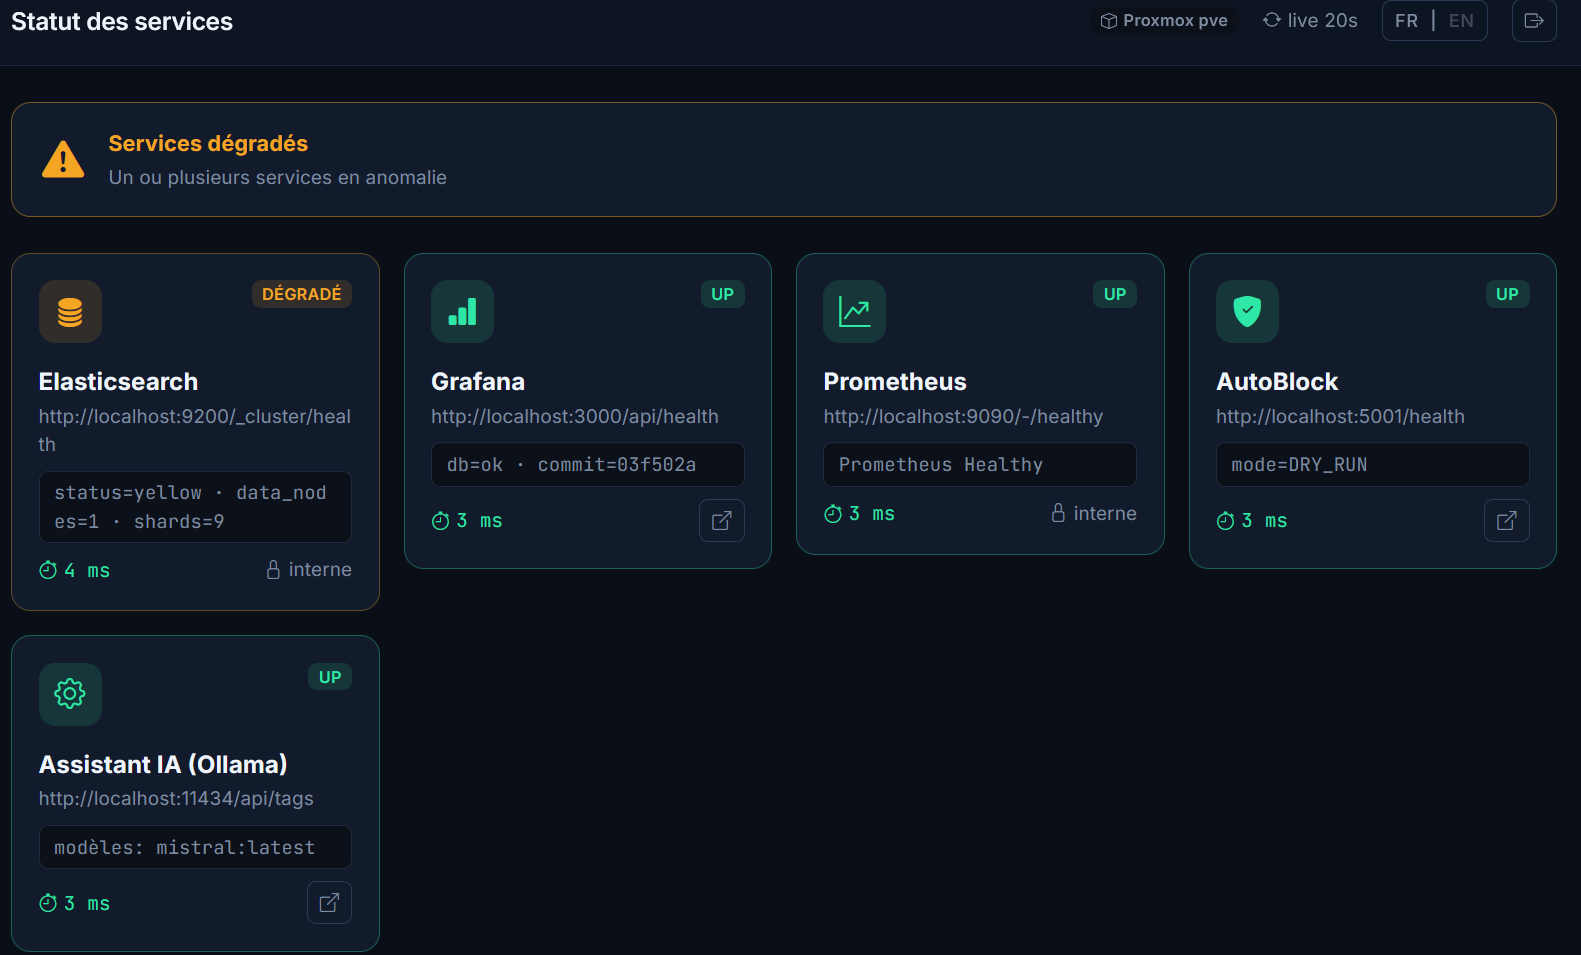
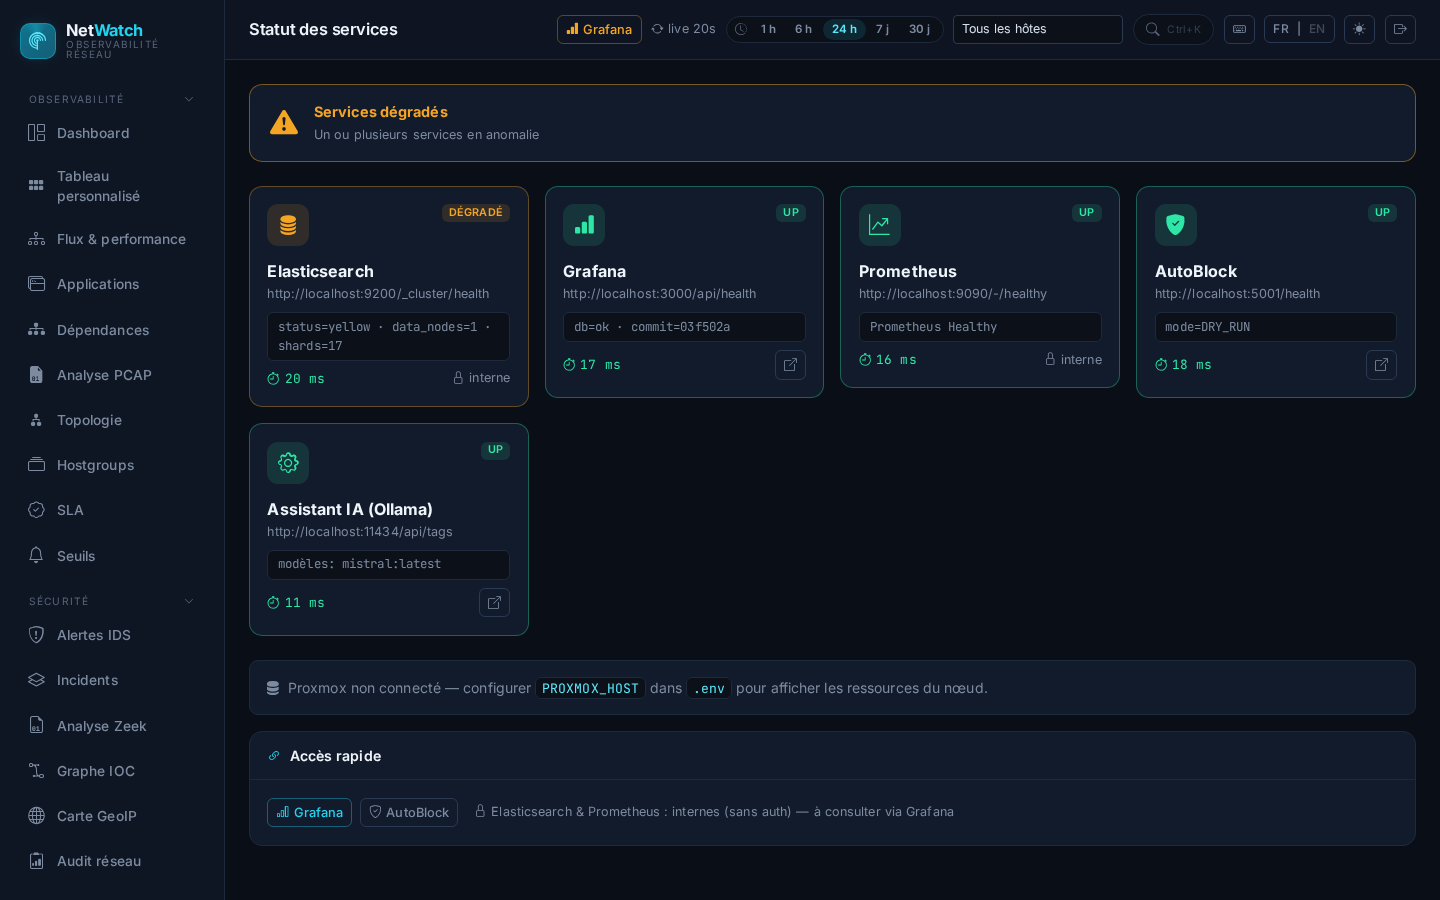
docs: screenshots du portail régénérés (home triage, flux, status, thème clair)
- captures Chromium headless 1440×900 (scratchpad/shoot.py, Playwright dans
  le venv WSL) : home pleine page (triage, KPIs sparklines/tendances, volume,
  top talkers, perf, alertes, points d'écoute), flux & performance sur 7 j,
  statut des services, home en thème clair
- README : table de captures mise à jour avec légendes
- topbar : titre de page prioritaire (plus de « Dashbo… » à 1440 px), badge
  Proxmox seulement ≥ 1600 px, sélecteur hostgroups resserré

diff --git a/portal/static/css/style.css b/portal/static/css/style.css
@@ -468,8 +468,13 @@ body.nav-rail .nav-rail-btn .bi { transform: rotate(180deg); }
   overflow: hidden;
   text-overflow: ellipsis;
 }
-.topbar-actions { display: flex; align-items: center; gap: .6rem; flex-shrink: 0; flex-wrap: wrap; justify-content: flex-end; }
+.topbar-actions { display: flex; align-items: center; gap: .6rem; flex-shrink: 1; min-width: 0; flex-wrap: wrap; justify-content: flex-end; }
+.topbar .page-title { flex-shrink: 0; max-width: 42%; }
 .topbar .form-select-sm { font-size: .78rem; }
+#hostgroup-filter { max-width: 170px !important; }
+/* Badge Proxmox : seulement sur très grand écran, la topbar est déjà dense */
+.topbar-proxmox { display: none; }
+@media (min-width: 1600px) { .topbar-proxmox { display: inline-flex; } }
 /* Largeur intermédiaire : le titre garde la priorité, les actions passent
    dessous plutôt que de le tronquer */
 @media (max-width: 1250px) {

diff --git a/portal/templates/base.html b/portal/templates/base.html
@@ -233,7 +233,7 @@
       <h5 class="mb-0 page-title">{% block page_title %}{% endblock %}</h5>
       <div class="topbar-actions">
         {% if proxmox_node is defined and proxmox_node and proxmox_host %}
-        <span class="badge bg-dark d-none d-xl-inline-flex">
+        <span class="badge bg-dark topbar-proxmox">
           <i class="bi bi-box me-1"></i>Proxmox {{ proxmox_node }}
         </span>
         {% endif %}

diff --git a/README.md b/README.md
@@ -44,14 +44,26 @@
 <table>
 <tr>
 <td align="center">
+<img src="docs/screenshots/portal-dashboard.png" alt="Portail — Dashboard" width="100%"/>
+<br/><em>Home — triage (état global + points d'attention), KPIs avec sparklines et tendances, volume réseau, top talkers, temps de réponse, alertes IDS, points d'écoute PCAP — le tout sur la plage temporelle globale (1 h → 30 j)</em>
+</td>
+</tr>
+<tr>
+<td align="center">
+<img src="docs/screenshots/portal-flows.png" alt="Portail — Flux & performance" width="100%"/>
+<br/><em>Flux & performance — top sources / ports (drill-down vers le pivot IP), Application Response Time p50/p95/p99, santé TCP (RTT, retransmissions, zero-window)</em>
+</td>
+</tr>
+<tr>
+<td align="center">
 <img src="docs/screenshots/portal-status.png" alt="Portail — Services Status" width="100%"/>
 <br/><em>Services Status — supervision temps réel des services Docker (Elasticsearch, Grafana, Prometheus, AutoBlock, IA locale)</em>
 </td>
 </tr>
 <tr>
 <td align="center">
-<img src="docs/screenshots/portal-dashboard.png" alt="Portail — Dashboard" width="100%"/>
-<br/><em>Dashboard — vue observabilité réseau : trafic 24 h, RTT/ART, top talkers, alertes IDS, points d'écoute PCAP</em>
+<img src="docs/screenshots/portal-dashboard-light.png" alt="Portail — thème clair" width="100%"/>
+<br/><em>Même portail en thème clair — un seul design system, tokens CSS, graphiques et jauges qui suivent le thème</em>
 </td>
 </tr>
 </table>
